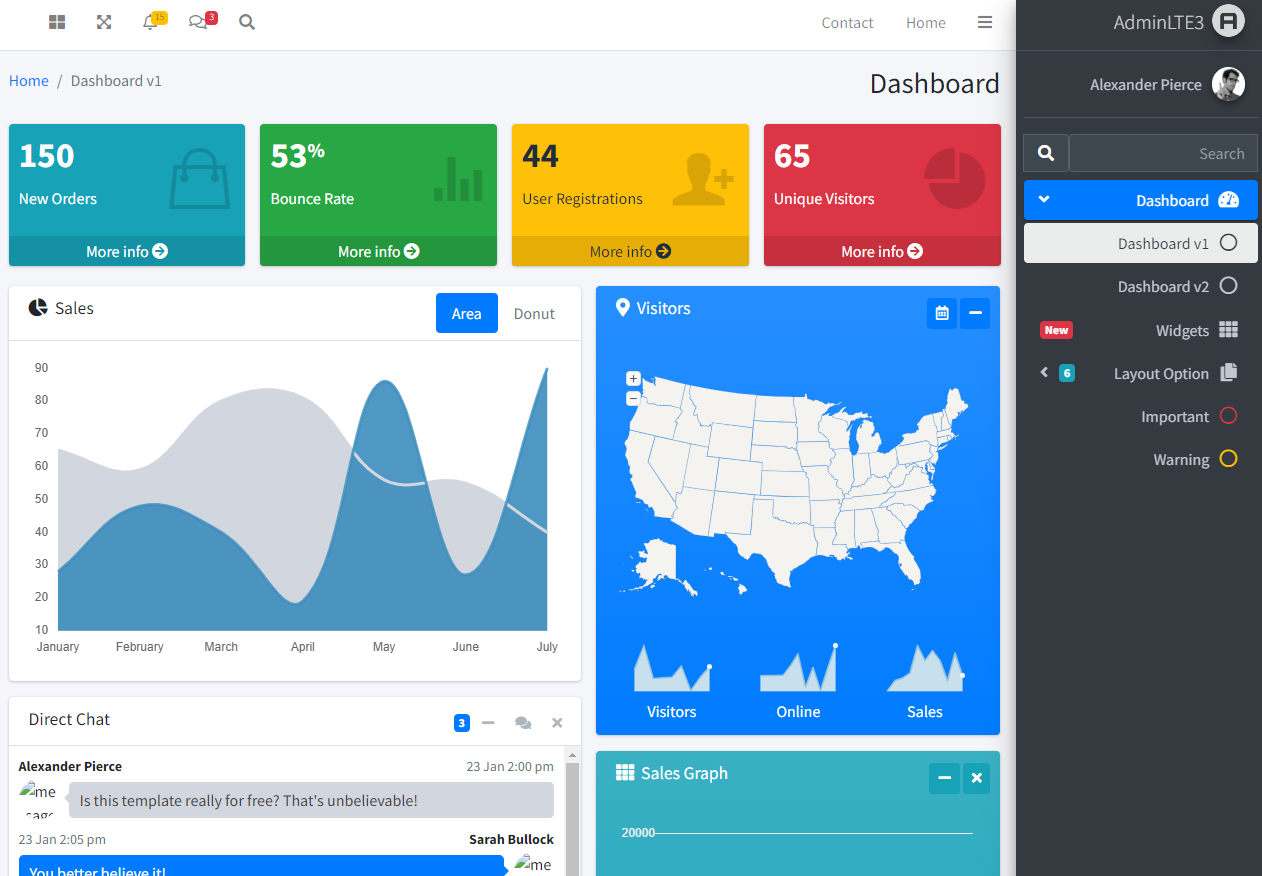
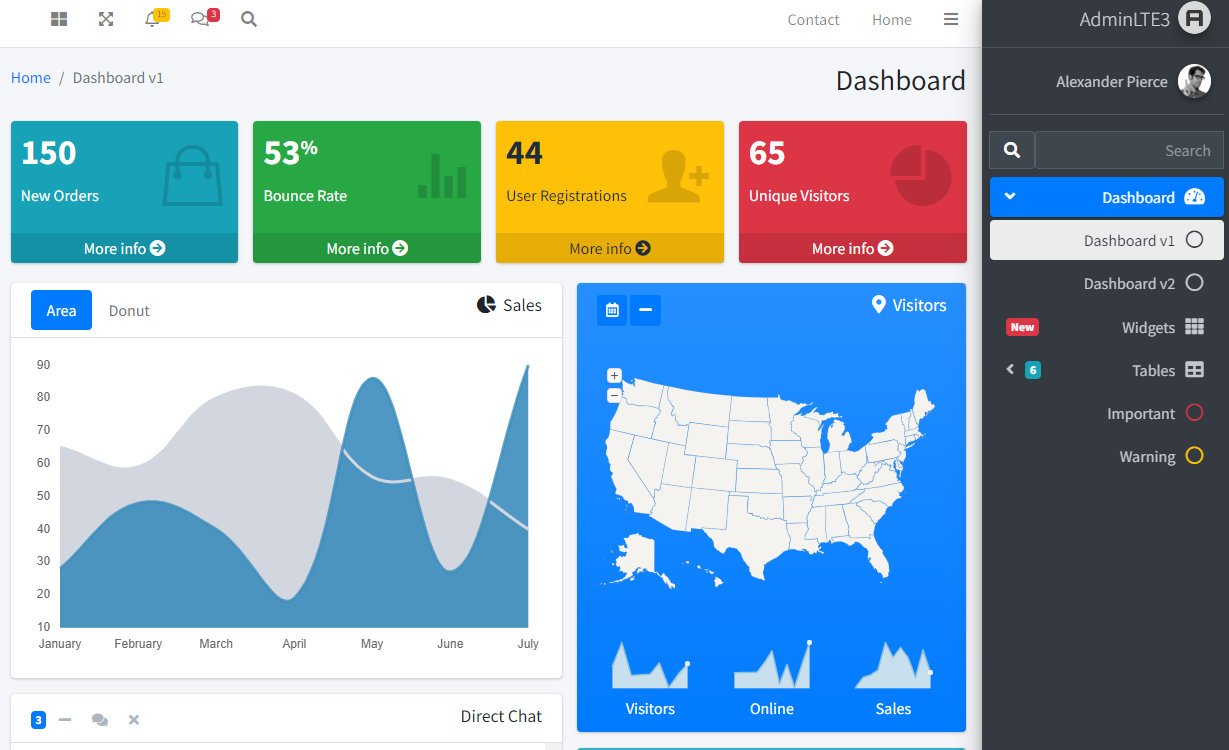
.

diff --git a/src/config/config.php b/src/config/config.php
@@ -4,7 +4,7 @@ return [
     'brandName' => 'AdminLTE3',
     'brandLink' => 'AdminLte.dashboard', #route name
     'theme' => 'light', #light or dark
-    'rtl' => true, #false or true
+    'rtl' => false, #false or true
     'sidebar_menu'=>[
         [
             'text'=>'Dashboard',
